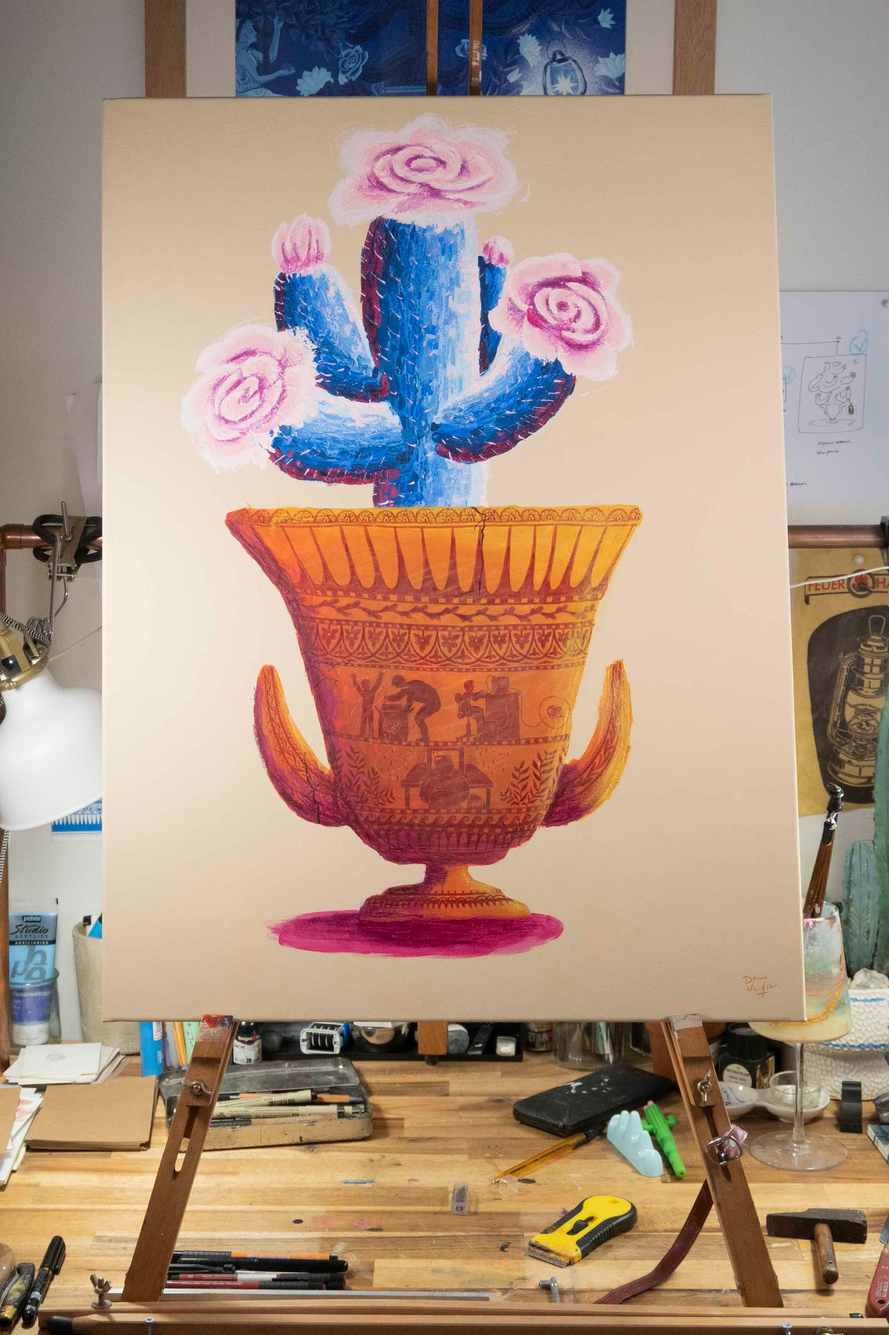
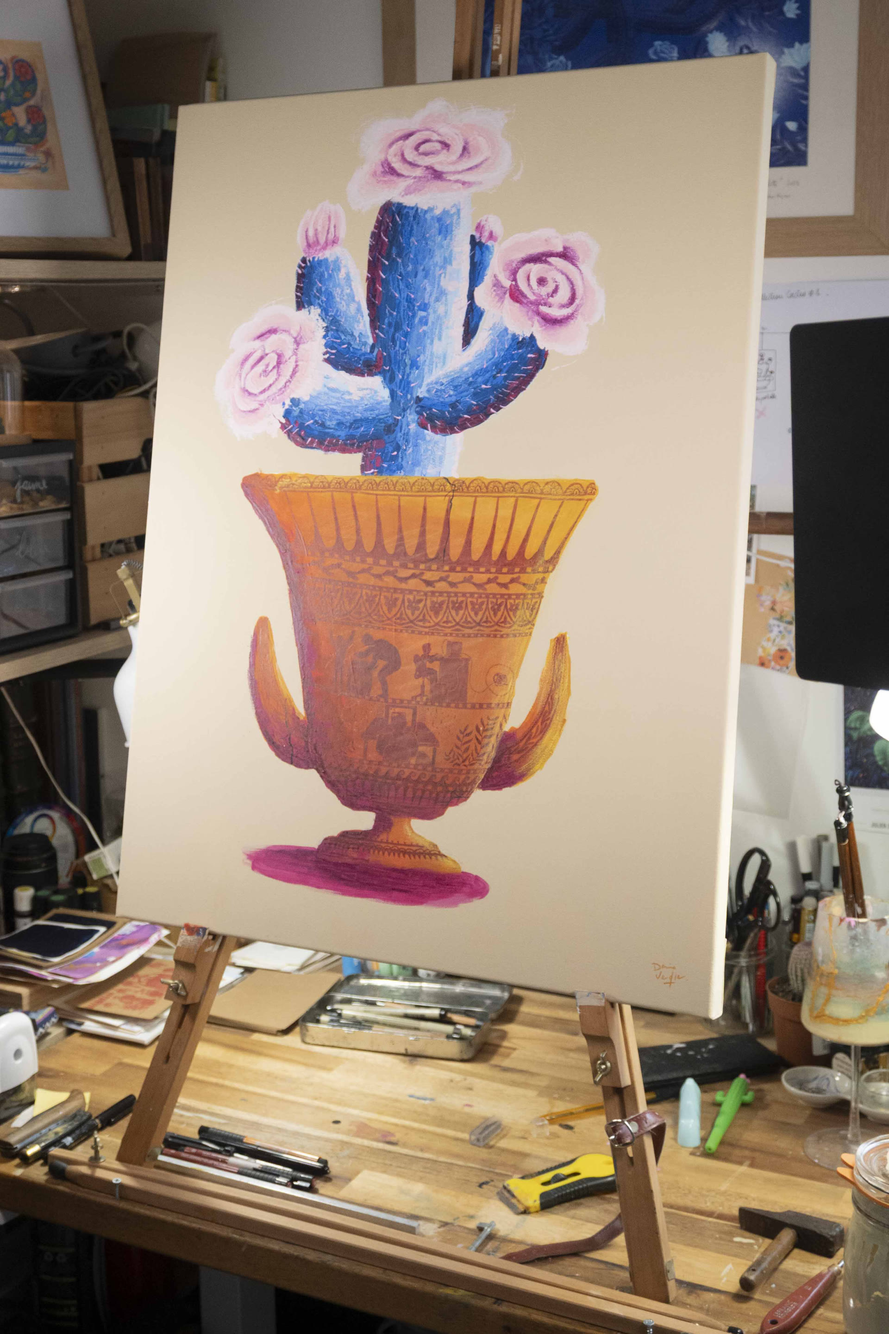
Add images, caption and price for L'âge de l'ordinateur painting (1 270 €)

diff --git a/src/app/[locale]/collection/page.tsx b/src/app/[locale]/collection/page.tsx
@@ -44,7 +44,18 @@ const paintings = [
     available: true,
     price: '1 270 €'
   },
-  { id: '04', images: ['/images/collection/04-lage-de-lordinateur.jpg'], dimensions: '73 × 54 cm', available: false, price: '' },
+  { 
+    id: '04', 
+    images: [
+      '/images/collection/04-lage-de-lordinateur.jpg',
+      '/images/collection/04-lage-de-lordinateur-1.jpg',
+      '/images/collection/04-lage-de-lordinateur-2.jpg',
+      '/images/collection/04-lage-de-lordinateur-3.jpg',
+    ], 
+    dimensions: '73 × 54 cm',
+    available: true,
+    price: '1 270 €'
+  },
   { id: '05', images: ['/images/collection/05-lage-de-lordinateur-portable.jpg'], dimensions: '92 × 65 cm', available: false, price: '' },
   { id: '06', images: ['/images/collection/06-lage-du-social.jpg'], dimensions: '100 × 65 cm', available: false, price: '' },
   { id: '07', images: ['/images/collection/07-lage-de-luniformisation.jpg'], dimensions: '100 × 65 cm', available: false, price: '' },
